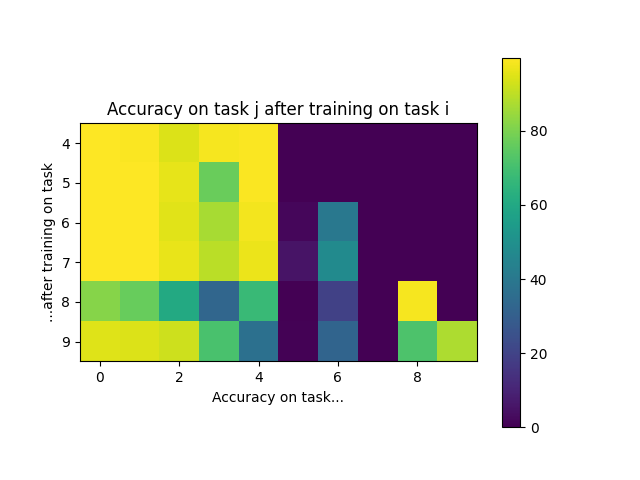
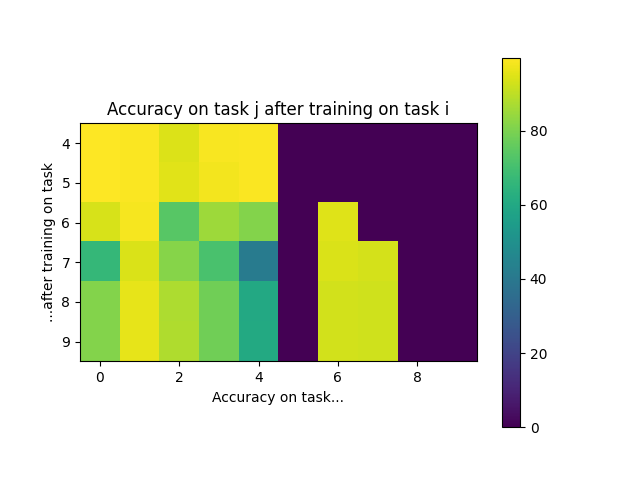
Fixed the way we load data in CL framework

Changed region(s): [[0.125, 0.3125, 0.4375, 0.75], [0.5, 0.4062, 0.75, 0.75], [0.8125, 0.5625, 0.875, 0.5938]]

diff --git a/Workspace/LoRA/lib/dataloader.py b/Workspace/LoRA/lib/dataloader.py
@@ -3,35 +3,52 @@ from torch.utils.data import DataLoader, Subset, random_split
 from torchvision import datasets, transforms
 
 
+
 MNIST_transform = transforms.Compose([transforms.ToTensor(), transforms.Normalize((0.1307,), (0.3081,))])
 CIFAR_transform = transforms.Compose([transforms.ToTensor(), transforms.Normalize((0.5, 0.5, 0.5), (0.5, 0.5, 0.5))])
 
 
-def get_MNIST_loaders(path, class_names, batch_size, download=False) :
+def get_MNIST_loaders(path, batch_size, random_seed, train_percentage=0.7, download=False) :
 
-    # load MNIST 
+    train_loaders_list, val_loaders_list, test_loaders_list = [], [], []
+
+    # LOAD MNIST 
     mnist_train = datasets.MNIST(root=path, train=True, download=download, transform=MNIST_transform)
     mnist_test = datasets.MNIST(root=path, train=False, download=download, transform=MNIST_transform)
 
-
-    # create a mask to filter indices for each label
-    train_mask = torch.tensor([label in class_names for label in mnist_train.targets])
-    test_mask = torch.tensor([label in class_names for label in mnist_test.targets])
-
-    # Create Subset datasets for train, validation, and test
-    train_dataset = Subset(mnist_train, torch.where(train_mask)[0])
+    # SPLIT DATA
+    train_dataset, val_dataset = random_split(mnist_train, [train_percentage, 1-train_percentage], generator=torch.Generator().manual_seed(random_seed))
+    test_mask = torch.tensor([label in range(10) for label in mnist_test.targets])
     test_dataset = Subset(mnist_test, torch.where(test_mask)[0])
 
-    # split train into train & validation
-    train_size = int(0.7 * len(train_dataset))
-    val_size = len(train_dataset) - train_size
-    train_dataset, val_dataset = random_split(train_dataset, [train_size, val_size])
+    # GET LOADERS
+    lists_of_labels = [range(5), [5], [6], [7], [8], [9]]
+    for label_list in lists_of_labels :   
+        # train/val/test_dataset's type is Subset, so can't directly access its targets through .targets
+        train_subset_indices = train_dataset.indices
+        train_subset_targets = [train_dataset.dataset.targets[i] for i in train_subset_indices]
+        val_subset_indices = val_dataset.indices
+        val_subset_targets = [val_dataset.dataset.targets[i] for i in val_subset_indices]
+        test_subset_indices = test_dataset.indices
+        test_subset_targets = [test_dataset.dataset.targets[i] for i in test_subset_indices]
+        # create a mask to filter indices for each label
+        train_mask = torch.tensor([label in label_list for label in train_subset_targets])
+        val_mask = torch.tensor([label in label_list for label in val_subset_targets])
+        test_mask = torch.tensor([label in label_list for label in test_subset_targets])
+        # create Subset datasets
+        train_subset = Subset(train_dataset, torch.where(train_mask)[0])
+        val_subset = Subset(val_dataset, torch.where(val_mask)[0])
+        test_subset = Subset(test_dataset, torch.where(test_mask)[0])
+        # get loaders
+        train_loader = DataLoader(train_subset, batch_size=batch_size, shuffle=False, drop_last=True)
+        val_loader = DataLoader(val_subset, batch_size=batch_size, shuffle=False, drop_last=True)
+        test_loader = DataLoader(test_subset, batch_size=batch_size, shuffle=False, drop_last=True)
+        # store loaders in the lists of loaders
+        train_loaders_list.append(train_loader)
+        val_loaders_list.append(val_loader)
+        test_loaders_list.append(test_loader)
 
-    train_loader = DataLoader(train_dataset, batch_size=batch_size, shuffle=True, drop_last=True)
-    val_loader = DataLoader(val_dataset, batch_size=batch_size, shuffle=False, drop_last=True)
-    test_loader = DataLoader(test_dataset, batch_size=batch_size, shuffle=False, drop_last=True)
-
-    return train_loader, val_loader, test_loader
+    return train_loaders_list, val_loaders_list, test_loaders_list
 
 def get_FMNIST_loaders(path, class_names, batch_size, download=False) :
 
